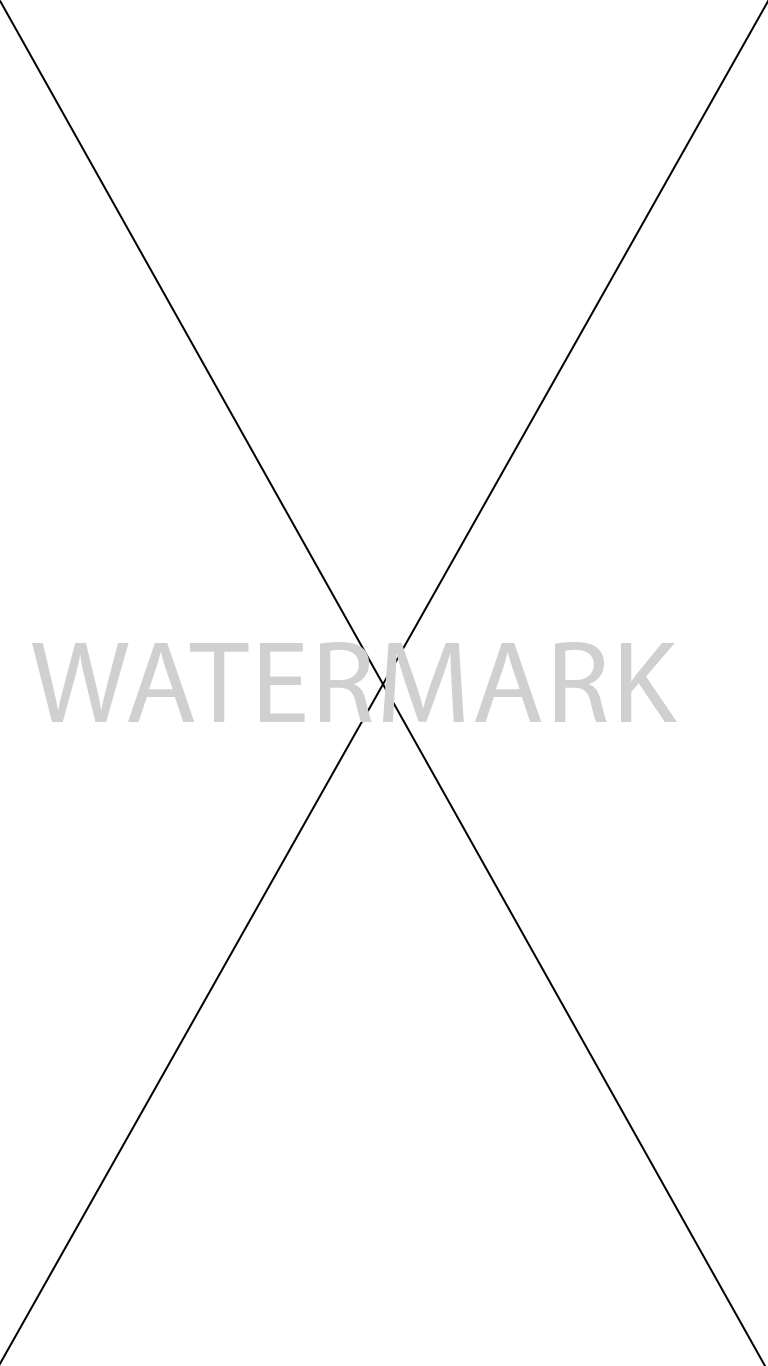
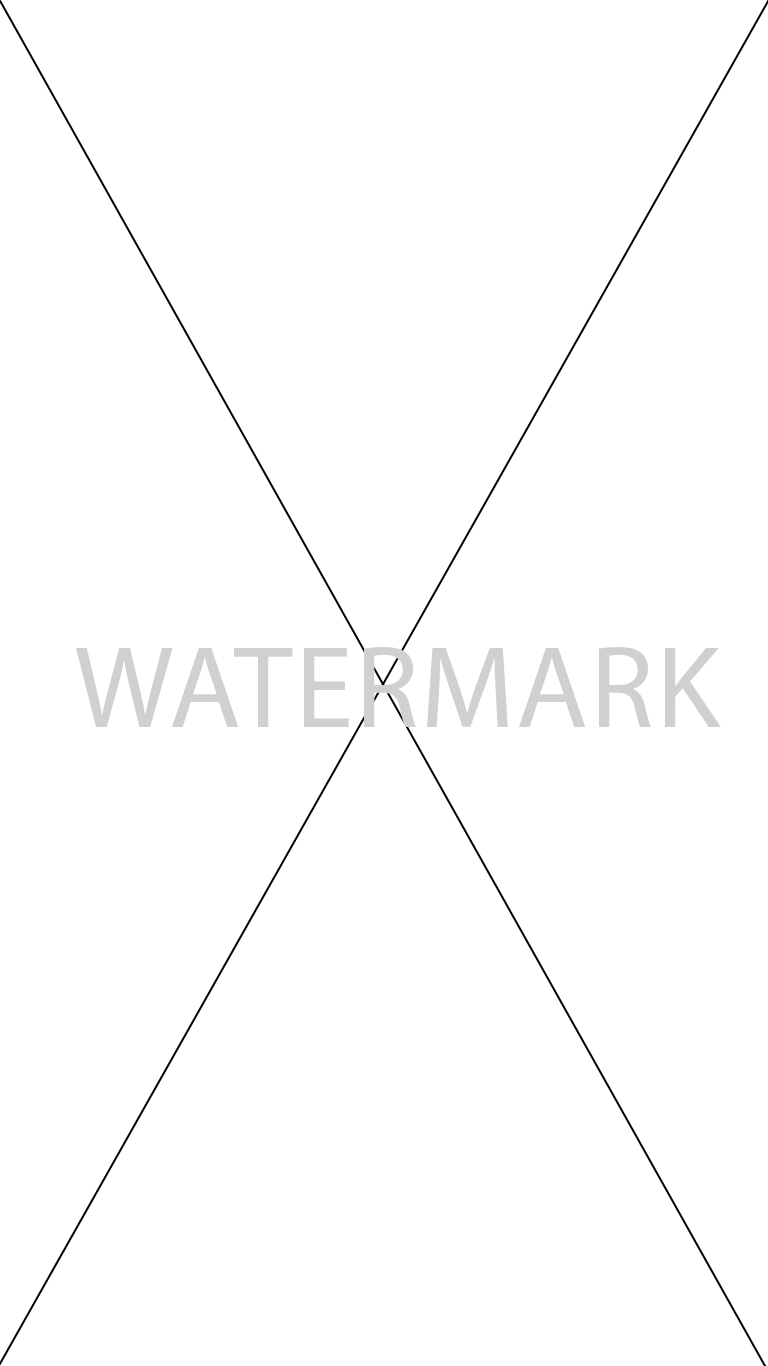
styles: new watermark

Changed region(s): [[0.125, 0.4612, 0.9375, 0.5534], [0.0312, 0.4612, 0.0938, 0.5534], [0.0938, 0.4612, 0.125, 0.4919]]

diff --git a/src/components/Webcam/index.tsx b/src/components/Webcam/index.tsx
@@ -35,6 +35,7 @@ const WebcamComponent: FC = () => {
     const [facingMode, setFacingMode] = React.useState(FACING_MODE_USER)
     const [imgSrcs, setImgSrcs] = useState<string[]>([]) // Cambiado a un array
     const [mirror, setMirror] = useState(false)
+    const [isCapturing, setIsCapturing] = useState(false)
 
     const handleClick = React.useCallback(() => {
         setFacingMode(prevState =>
@@ -45,6 +46,7 @@ const WebcamComponent: FC = () => {
     }, [])
 
     const capture = useCallback(async () => {
+        setIsCapturing(true)
         const imageSrc = webcamRef.current?.getScreenshot() as string
         const img = new Image()
         img.src = imageSrc
@@ -60,6 +62,8 @@ const WebcamComponent: FC = () => {
                 setImgSrcs(prevSrcs => [...prevSrcs, watermarkedImage])
             } catch (error) {
                 console.error('Error processing image:', error)
+            } finally {
+                setIsCapturing(false)
             }
         }
     }, [webcamRef])
@@ -170,10 +174,9 @@ const WebcamComponent: FC = () => {
                 <img // Paso 2
                     style={{
                         position: 'absolute', // Paso 4
-                        objectFit: 'cover',
+                        objectFit: 'contain',
                         width: '100%',
                         height: '100%',
-                        opacity: 0.2,
                     }}
                     src={waterMark.src} // Paso 1
                     alt="Overlay"
@@ -206,6 +209,7 @@ const WebcamComponent: FC = () => {
                     <ButtonComponent
                         variant="contained"
                         onClick={capture}
+                        disabled={isCapturing}
                         sx={{
                             backgroundColor: 'transparent',
                             color: 'black',
